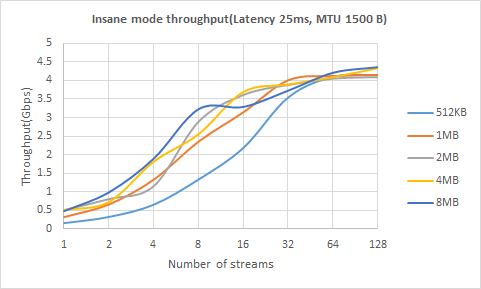
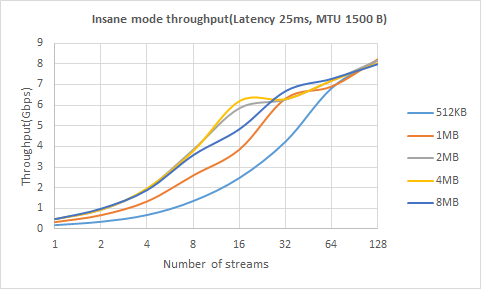
udpate insane mode perf

diff --git a/HowTos/insane_mode_perf.rst b/HowTos/insane_mode_perf.rst
@@ -35,18 +35,23 @@ The performance test is conducted between a c5.4xlarge instance in the Spoke VPC
 
 Aviatrix gateways at the Spoke VPC and Transit VPC are c5.4xlarge instance size. Both Spoke VPC gateway and Transit VPC gateway have Insane Mode enabled. 
 
-1. MTU = 9000 Bytes 
-=====================
+1. MTU = 9000 Bytes, C5.4xlarge 
+=================================
 
 For Jumbo Frame Size of 9000 bytes, the TCP throughput against different end-to-end latencies and the number of TCP streams is shown as below. 
 
 |insane_perf_jumbo|
 
 
-2. MTU = 1500 Bytes
-====================
+2. MTU = 1500 Bytes, C5.4xlarge
+=================================
 
-Coming soon.
+|throughput_1500_25ms|
+
+3. MTU = 1500 Bytes, C5n.2xlarge
+=================================
+
+Coming soon...
 
 How to Tune Performance
 -----------------------
